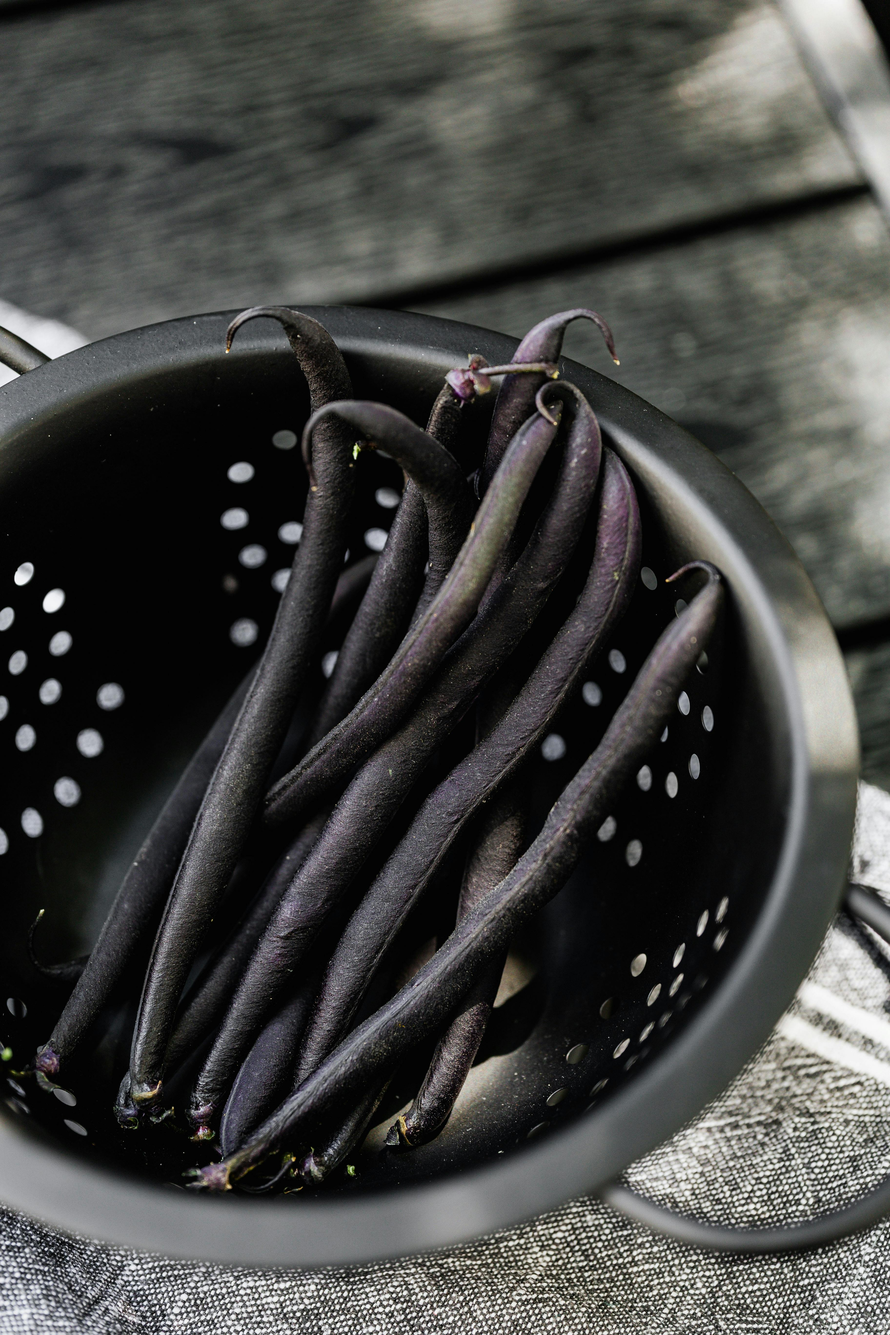
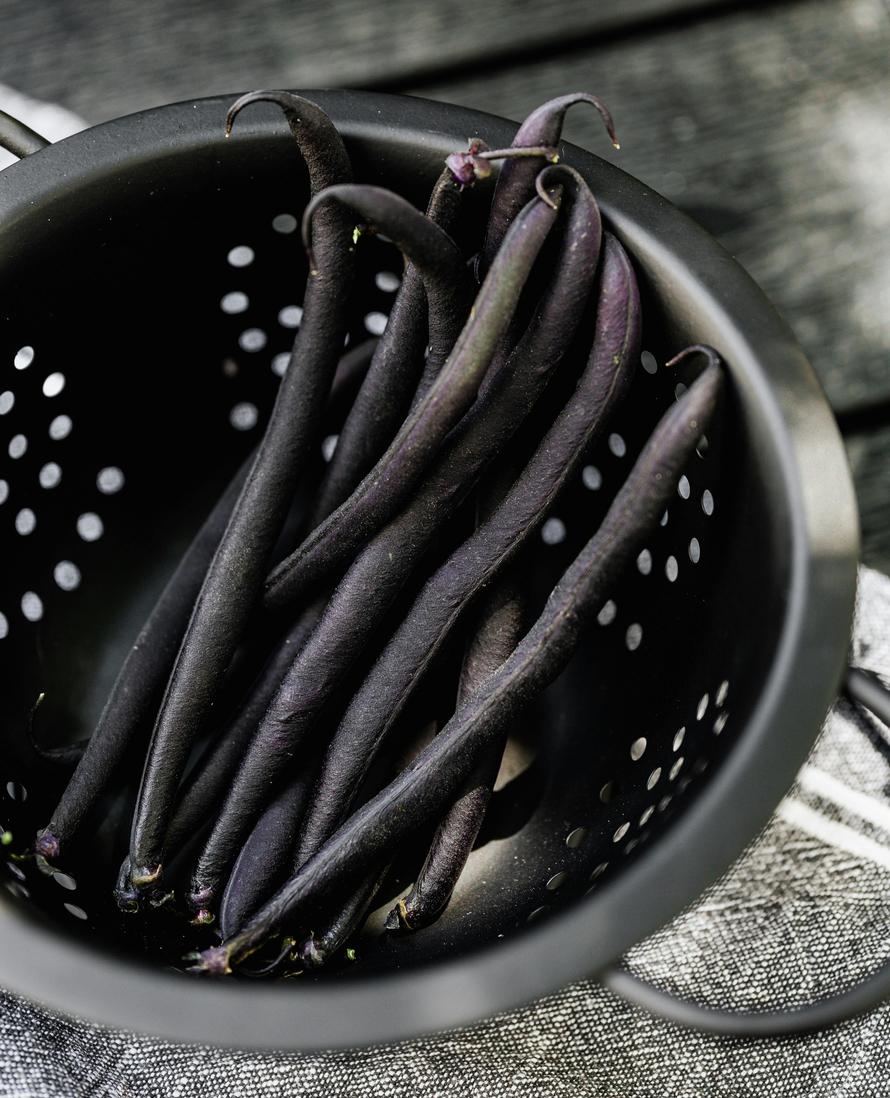
Images changed

diff --git a/Averon-FE/src/Components/Products/Products.jsx b/Averon-FE/src/Components/Products/Products.jsx
@@ -2,22 +2,22 @@ import React, { useState } from 'react'
 import './Products.css'
 import { Link } from 'react-router-dom';
 import { Helmet } from 'react-helmet-async';
-import product1 from '../../assets/alba.JPG'
-import product2 from '../../assets/c5spec.JPG'
-import product3 from '../../assets/c5stick.JPG'
-import cinnamon from '../../assets/cinnamon.jpg'
-import cardamom from '../../assets/cardamom.jpg'
-import cloves from '../../assets/cloves.jpg'
-import vanilla from '../../assets/vanilla.jpg'
-import nutmeg from '../../assets/nutmeg.jpg'
-import cinnamon_ground from '../../assets/cinnamon ground.jpg'
-import cloves_ground from '../../assets/cloves ground.jpg'
-import cardamom_ground from '../../assets/cardamom ground.jpg'
-import pepper_ground from '../../assets/pepper ground.jpg'
-import pepper from '../../assets/pepper.jpg'
-import pepper_500 from '../../assets/pepper500.jpg'
-import pepper_cracked from '../../assets/pepper cracked.jpg'
-import quillings from '../../assets/quillings.jpg'
+import product1 from '../../assets/alba.webp'
+import product2 from '../../assets/c5spec.webp'
+import product3 from '../../assets/c5stick.webp'
+import cinnamon from '../../assets/cinnamon.webp'
+import cardamom from '../../assets/cardamom.webp'
+import cloves from '../../assets/cloves.webp'
+import vanilla from '../../assets/vanilla.webp'
+import nutmeg from '../../assets/nutmeg.webp'
+import cinnamon_ground from '../../assets/cinnamon ground.webp'
+import cloves_ground from '../../assets/cloves ground.webp'
+import cardamom_ground from '../../assets/cardamom ground.webp'
+import pepper_ground from '../../assets/pepper ground.webp'
+import pepper from '../../assets/pepper.webp'
+import pepper_500 from '../../assets/pepper500.webp'
+import pepper_cracked from '../../assets/pepper cracked.webp'
+import quillings from '../../assets/quillings.webp'
 import C4 from '../../assets/C4.jpg'
 import H1 from '../../assets/H1.jpg'
 import H2 from '../../assets/H2.png'

diff --git a/Averon-FE/src/Components/Sale/Sale.jsx b/Averon-FE/src/Components/Sale/Sale.jsx
@@ -4,16 +4,16 @@ import './Sale.css';
 
 
 // 1. Physical asset imports mapping directly to your spice naming convention
-import cinnamonQuillsImg from '../../assets/cinnamon.jpg';
-import cinnamonGroundImg from '../../assets/cinnamon ground.jpg';
-import cardamomWholeImg from '../../assets/cardamom.jpg';
-import cardamomGroundImg from '../../assets/cardamom ground.jpg';
-import clovesWholeImg from '../../assets/cloves.jpg';
-import clovesGroundImg from '../../assets/cloves ground.jpg';
-import blackPepperWholeImg from '../../assets/pepper.jpg';
-import blackPepperGroundImg from '../../assets/pepper ground.jpg';
-import nutmegWholeImg from '../../assets/nutmeg.jpg';
-import vanillaWholeImg from '../../assets/vanilla.jpg';
+import cinnamonQuillsImg from '../../assets/cinnamon.webp';
+import cinnamonGroundImg from '../../assets/cinnamon ground.webp';
+import cardamomWholeImg from '../../assets/cardamom.webp';
+import cardamomGroundImg from '../../assets/cardamom ground.webp';
+import clovesWholeImg from '../../assets/cloves.webp';
+import clovesGroundImg from '../../assets/cloves ground.webp';
+import blackPepperWholeImg from '../../assets/pepper.webp';
+import blackPepperGroundImg from '../../assets/pepper ground.webp';
+import nutmegWholeImg from '../../assets/nutmeg.webp';
+import vanillaWholeImg from '../../assets/vanilla.webp';
 
 
 

diff --git a/Averon-FE/src/Components/Offers/Offers.jsx b/Averon-FE/src/Components/Offers/Offers.jsx
@@ -3,17 +3,17 @@ import './Offers.css';
 import { Link } from 'react-router-dom';
 
 // Image Imports
-import cinnamon_ground from '../../assets/cinnamon.jpg';
+import cinnamon_ground from '../../assets/cinnamon.webp';
 // NOTE: Adjust these paths below to match your actual local file names
-import black_pepper from '../../assets/pepper.jpg'; 
-import cardamom from '../../assets/cardamom.jpg';
-import cloves from '../../assets/cloves.jpg';
-import nutmeg_mace from '../../assets/nutmeg.jpg';
-import vanilla from '../../assets/vanilla.jpg';
-import supply_chain from '../../assets/supply-chain.jpg';
-import processing from '../../assets/processing.jpg';
-import regions from '../../assets/regions.jpg';
-import certifications from '../../assets/certifications.jpg';
+import black_pepper from '../../assets/pepper.webp'; 
+import cardamom from '../../assets/cardamom.webp';
+import cloves from '../../assets/cloves.webp';
+import nutmeg_mace from '../../assets/nutmeg.webp';
+import vanilla from '../../assets/vanilla.webp';
+import supply_chain from '../../assets/supply-chain.webp';
+import processing from '../../assets/processing.webp';
+import regions from '../../assets/regions.webp';
+import certifications from '../../assets/certifications.webp';
 
 
 

diff --git a/Averon-FE/src/Components/SourcingRegions/SourcingRegions.jsx b/Averon-FE/src/Components/SourcingRegions/SourcingRegions.jsx
@@ -4,14 +4,13 @@ import { Helmet } from 'react-helmet-async';
 import './SourcingRegions.css';
 
 // Asset Imports
-import regions_hero_bg from '../../assets/regions.jpg'; // Using standard industrial/estate backdrop for hero
-import map_asset from '../../assets/regions.jpg';   // Map asset brought explicitly into the DOM layout
+import regions_hero_bg from '../../assets/regions.webp'; // Using standard industrial/estate backdrop for hero
 import map from '../../assets/map.jpg';   // Map asset brought explicitly into the DOM layout
 
 // NOTE: Adjust these image names/paths to match the ones available in your assets folder
-import central_highlands from '../../assets/central_highlands.jpg'; 
-import southern_coast from '../../assets/southern_coast.jpg';
-import low_country from '../../assets/low_country.jpg';
+import central_highlands from '../../assets/central_highlands.webp'; 
+import southern_coast from '../../assets/southern_coast.webp';
+import low_country from '../../assets/low_country.webp';
 
 const SourcingRegions = () => {
   return (

diff --git a/Averon-FE/src/Components/Products/Varieties/Cinnamon.jsx b/Averon-FE/src/Components/Products/Varieties/Cinnamon.jsx
@@ -13,15 +13,15 @@ import './Cinnamon.css';
 // import C4 from '../../assets/C4.jpg';
 // import H1 from '../../assets/H1.jpg';
 // import H2 from '../../assets/H2.png';
-import product1 from '../../../assets/alba.JPG'
-import product2 from '../../../assets/c5spec.JPG'
-import product3 from '../../../assets/c5stick.JPG'
-import cinnamon from '../../../assets/cinnamon.jpg'
+import product1 from '../../../assets/alba.webp'
+import product2 from '../../../assets/c5spec.webp'
+import product3 from '../../../assets/c5stick.webp'
+import cinnamon from '../../../assets/cinnamon.webp'
 import C4 from '../../../assets/C4.jpg'
 import H1 from '../../../assets/H1.jpg'
 import H2 from '../../../assets/H2.png'
-import cinnamon_ground from '../../../assets/cinnamon ground.jpg'
-import quillings from '../../../assets/quillings.jpg'
+import cinnamon_ground from '../../../assets/cinnamon ground.webp'
+import quillings from '../../../assets/quillings.webp'
 
 
 

diff --git a/Averon-FE/src/Components/Processing/Processing.jsx b/Averon-FE/src/Components/Processing/Processing.jsx
@@ -4,13 +4,13 @@ import { Helmet } from 'react-helmet-async';
 import './Processing.css';
 
 // Asset Imports
-import processing_hero from '../../assets/processing.jpg'; 
-import sorting_line from '../../assets/cinnamon ground.jpg'; 
+import processing_hero from '../../assets/processing.webp'; 
+import sorting_line from '../../assets/cinnamon ground.webp'; 
 
 // NOTE: Adjust these image paths to match your actual local file names for the steps
-import grading from '../../assets/grading.jpg'; 
-import drying from '../../assets/drying.jpg';
-import packaging from '../../assets/packing.jpg';
+import grading from '../../assets/grading.webp'; 
+import drying from '../../assets/drying.webp';
+import packaging from '../../assets/packing.webp';
 
 const Processing = () => {
   return (

diff --git a/Averon-FE/src/Components/SupplyChain/SupplyChain.jsx b/Averon-FE/src/Components/SupplyChain/SupplyChain.jsx
@@ -4,12 +4,12 @@ import { Helmet } from 'react-helmet-async';
 import './SupplyChain.css';
 
 // Asset Imports
-import supply_hero from '../../assets/supply-chain.jpg'; 
-import chain_metrics from '../../assets/supply-method.jpg'; 
+import supply_hero from '../../assets/supply-chain.webp'; 
+import chain_metrics from '../../assets/supply-method.webp'; 
 
 // NOTE: Adjust these image paths to match your actual local file names for the pillars
-import farm_sourcing from '../../assets/farmers.jpg';
-import logistics_img from '../../assets/freight.jpg';
+import farm_sourcing from '../../assets/farmers.webp';
+import logistics_img from '../../assets/freight.webp';
 
 const SupplyChain = () => {
   return (

diff --git a/Averon-FE/src/Components/Products/Varieties/BlackPepper.jsx b/Averon-FE/src/Components/Products/Varieties/BlackPepper.jsx
@@ -4,10 +4,10 @@ import { Helmet } from 'react-helmet-async';
 import './BlackPepper.css';
 
 // Asset Imports - Points directly to your pepper assets
-import pepper_500 from '../../../assets/pepper500.jpg';
-import pepper from '../../../assets/pepper.jpg';
-import pepper_cracked from '../../../assets/pepper cracked.jpg';
-import pepper_ground from '../../../assets/pepper ground.jpg';
+import pepper_500 from '../../../assets/pepper500.webp';
+import pepper from '../../../assets/pepper.webp';
+import pepper_cracked from '../../../assets/pepper cracked.webp';
+import pepper_ground from '../../../assets/pepper ground.webp';
 
 const BlackPepper = () => {
   const specs = [

diff --git a/Averon-FE/src/Components/Products/Varieties/GreenCardamom.jsx b/Averon-FE/src/Components/Products/Varieties/GreenCardamom.jsx
@@ -4,8 +4,8 @@ import { Helmet } from 'react-helmet-async';
 import './GreenCardamom.css';
 
 // Asset Imports - Points directly to your cardamom assets
-import cardamom from '../../../assets/cardamom.jpg';
-import cardamom_ground from '../../../assets/cardamom ground.jpg';
+import cardamom from '../../../assets/cardamom.webp';
+import cardamom_ground from '../../../assets/cardamom ground.webp';
 
 const GreenCardamom = () => {
   const specs = [

diff --git a/Averon-FE/src/Components/Products/Varieties/Cloves.jsx b/Averon-FE/src/Components/Products/Varieties/Cloves.jsx
@@ -4,8 +4,8 @@ import { Helmet } from 'react-helmet-async';
 import './Cloves.css';
 
 // Asset Imports - Points directly to your cloves assets
-import cloves from '../../../assets/cloves.jpg';
-import cloves_ground from '../../../assets/cloves ground.jpg';
+import cloves from '../../../assets/cloves.webp';
+import cloves_ground from '../../../assets/cloves ground.webp';
 
 const Cloves = () => {
   const specs = [

diff --git a/Averon-FE/src/Components/Quality/Quality.jsx b/Averon-FE/src/Components/Quality/Quality.jsx
@@ -2,8 +2,8 @@ import React from 'react'
 import { Helmet } from 'react-helmet-async';
 import './Quality.css'
 
-import quality_img1 from '../../assets/harvest_field.jpg' 
-import quality_img2 from '../../assets/processing_drying.jpg'
+import quality_img1 from '../../assets/harvest_field.webp' 
+import quality_img2 from '../../assets/processing_drying.webp'
 
 const Quality = () => {
   return (

diff --git a/Averon-FE/src/Components/Certifications/Certifications.jsx b/Averon-FE/src/Components/Certifications/Certifications.jsx
@@ -4,7 +4,7 @@ import { Helmet } from 'react-helmet-async'; // Ensure npm install react-helmet 
 import './Certifications.css';
 
 // Asset Imports
-import cert_hero from '../../assets/certifications.jpg'; 
+import cert_hero from '../../assets/certifications.webp'; 
 import compliance_bg from '../../assets/accreditations.jpg'; 
 
 const Certifications = () => {
